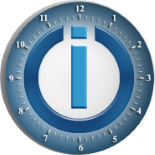
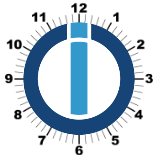
Replace clock background Detect alive host

diff --git a/admin/lib/js/hostInfo.js b/admin/lib/js/hostInfo.js
@@ -7,7 +7,7 @@ let mainHost = '';
 
 //------------------------------------------------------ HOST INFORMATION FUNCTIONS -------------------------------------------------------
 async function getNodeVersionList(callback) {
-    
+
     let data;
     if (sessionStorage.getItem('ioBroker.info.nodejsInfo')) {
         data = JSON.parse(sessionStorage.getItem('ioBroker.info.nodejsInfo'));
@@ -79,23 +79,35 @@ function getNodeExtrainfo(host) {
 
 }
 
+const getState = async function (id) {
+    return new Promise(function (resolve, reject) {
+        socket.emit('getState', id, async function (err, state) {
+            return err ? reject(err) : resolve(state);
+        });
+    });
+};
+
 const getHosts = function () {
     socket.emit('getObjectView', 'system', 'host', {startkey: 'system.host.', endkey: 'system.host.\u9999'}, async function (err, res) {
         if (!err && res) {
             hosts = [];
             for (let i = 0; i < res.rows.length; i++) {
                 hosts.push(res.rows[i].id.substring('system.host.'.length));
+
+                // check if host is alive
+                var alive = await getState(res.rows[i].id + '.alive');
+                if (alive && alive.val) {
+                    mainHost = res.rows[i].id.substring('system.host.'.length);
+                }
             }
-            mainHost = res.rows[0].id.substring('system.host.'.length);
         }
 
         await getNodeVersionList(updateInfoPage);
-
     });
 };
 
-/** 
- * Get host informations
+/**
+ * Get host information
  * @param {type} host
  * @param {type} callback
  */

diff --git a/admin/lib/js/forum.js b/admin/lib/js/forum.js
@@ -30,6 +30,9 @@ function startForum() {
                     $('#forumListLoader').remove();
                 }
                 const feed = await getDescription(thread);
+                if (!feed) {
+                    continue;
+                }
                 const $item = $('#forumEntryTemplate').children().clone(true, true);
                 $item.find('.navbar-right').remove();
                 $item.find('.assignDiv').remove();
@@ -38,9 +41,8 @@ function startForum() {
                 $item.find('.y_title').addClass('titleRSS');
                 $item.find('.title').addClass('titleRSS');
                 $item.find('.collapse-link').addClass('titleRSS');
-                const title = feed.title.replace("Reply to ", "");
+                const title = feed.title.replace('Reply to ', '');
                 $item.find('.titleLink').addClass('titleRSS').text(title).attr('href', feed.link);
-
                 let desc = feed.description;
                 desc += "<div style='width: 100%; text-align: center;'>&#9711;&nbsp;&#9711;&nbsp;&#9711;</div>";
                 desc += "<p class='spoiler-content'>";
@@ -50,7 +52,6 @@ function startForum() {
 
                 $item.find('.description').html(desc);
                 $item.find('.description a').attr('target', '_blank');
-
                 $item.find('.byline').text(new Date(feed.pubDate).toLocaleDateString(systemLang, dateOptions) + " - " + feed.author);
                 $('#forumList').append($item);
             }

diff --git a/admin/lib/js/info.js b/admin/lib/js/info.js
@@ -148,7 +148,7 @@ $(function () {
         }
 
         if (!adapterConfig.clock) {
-            startClock("start");
+            startClock('start');
         } else {
             $('.clock').hide();
         }
@@ -177,10 +177,10 @@ $(function () {
         if (blockCounter.length === 0) {
             $('#adapterRequestIssueBlock').hide();
         } else if (blockCounter.length === 1) {
-            $(blockCounter[0]).removeClass().addClass("col-xs-12 col-sm-12 col-md-12 col-lg-12");
+            $(blockCounter[0]).removeClass().addClass('col-xs-12 col-sm-12 col-md-12 col-lg-12');
         } else if (blockCounter.length === 2) {
-            $(blockCounter[0]).removeClass().addClass("col-xs-12 col-sm-12 col-md-6 col-lg-6");
-            $(blockCounter[1]).removeClass().addClass("col-xs-12 col-sm-12 col-md-6 col-lg-6");
+            $(blockCounter[0]).removeClass().addClass('col-xs-12 col-sm-12 col-md-6 col-lg-6');
+            $(blockCounter[1]).removeClass().addClass('col-xs-12 col-sm-12 col-md-6 col-lg-6');
         }
 
         if (adapterConfig.documentation) {

diff --git a/README.md b/README.md
@@ -46,6 +46,8 @@ Many thanks to `sebhildebrandt` for the great work on the package [systeminforma
 
 ## Changelog
 <!-- ### __WORK IN PROGRESS__ -->
+### __WORK IN PROGRESS__
+* (bluefox) updated the clock background 
 
 ### 1.9.6 (2021-07-26)
 * (simatec) Design fix
@@ -236,7 +238,7 @@ Many thanks to `sebhildebrandt` for the great work on the package [systeminforma
 ## License
 The MIT License (MIT)
 
-Copyright (c) 2017 - 2020 ldittmar <iobroker@lmdsoft.de>
+Copyright (c) 2017 - 2021 ldittmar <iobroker@lmdsoft.de>
 
 Permission is hereby granted, free of charge, to any person obtaining a copy
 of this software and associated documentation files (the "Software"), to deal
